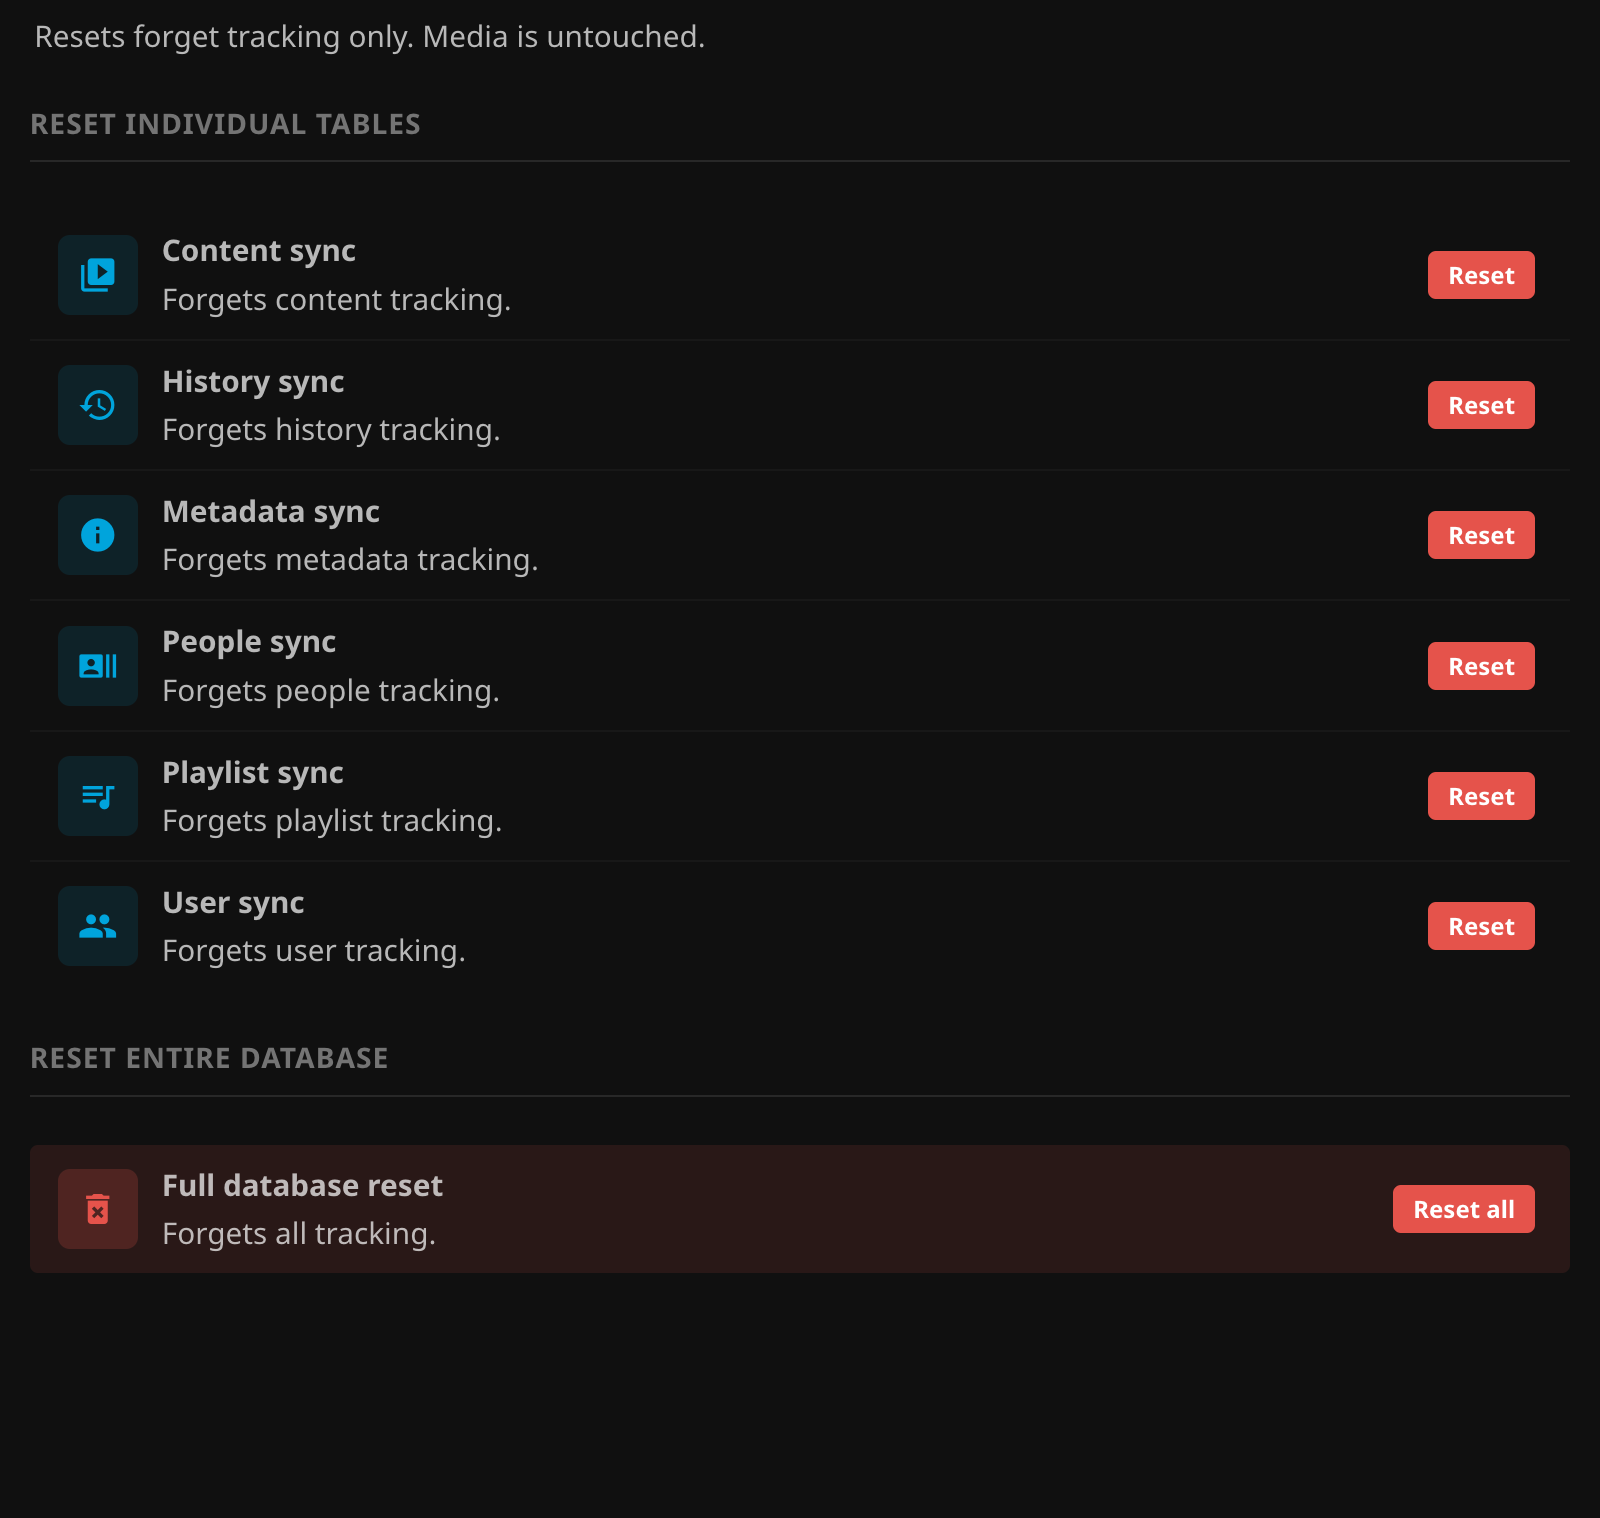
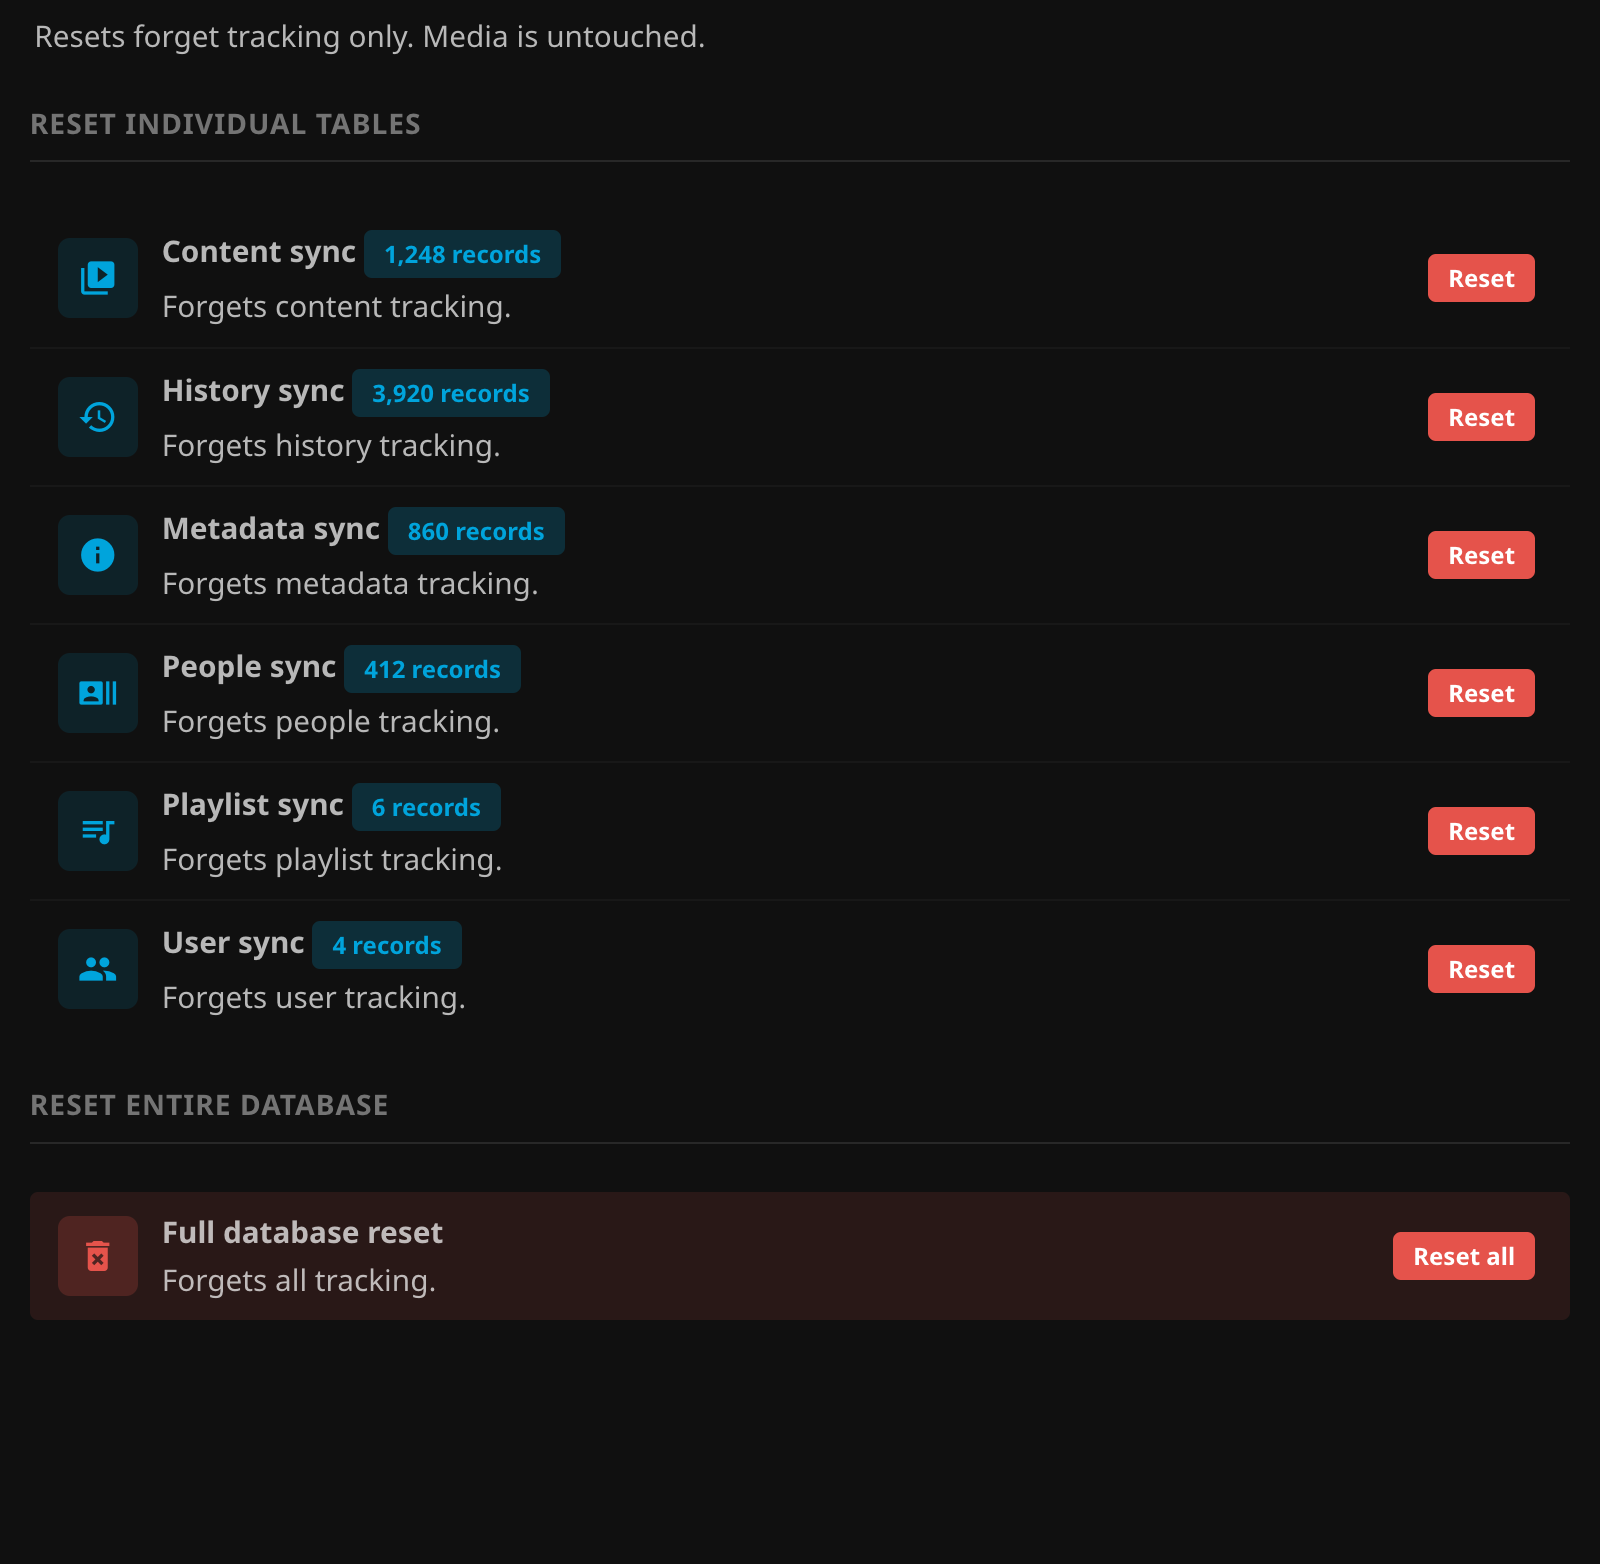
count records on troubleshooting tables

diff --git a/Jellyfin.Plugin.Zooid/Web/zooid_troubleshooting.js b/Jellyfin.Plugin.Zooid/Web/zooid_troubleshooting.js
@@ -75,13 +75,29 @@ export default function (view) {
 
     // paintTables
     // Colors each table's tile by what it holds: the accent while it has rows a reset would forget, gray while it is
-    // empty. A table whose count cannot be read keeps the accent.
+    // empty. A table with rows shows how many in a badge beside its name. A table whose count cannot be read keeps the
+    // accent and shows no badge.
     function paintTables() {
         return ZooidShared.apiRequest('Tables', 'GET').then(function (counts) {
             Object.keys(TABLE_BUTTONS).forEach(function (table) {
                 var button = view.querySelector('#' + TABLE_BUTTONS[table]);
                 var row = button && button.closest('.stolon-reset-row');
-                if (row) zooidModule.setCollapsibleTile(row.querySelector('.stolon-collapsible-tile'), counts && counts[table] === 0 ? 'gray' : null);
+                if (!row) return;
+                var count = counts ? counts[table] : undefined;
+                zooidModule.setCollapsibleTile(row.querySelector('.stolon-collapsible-tile'), count === 0 ? 'gray' : null);
+                var title = row.querySelector('.stolon-reset-info > div');
+                var badge = row.querySelector('.zooid-table-count');
+                if (typeof count === 'number' && count > 0 && title) {
+                    if (!badge) {
+                        badge = zooidModule.make('span', 'stolon-badge stolon-blue zooid-table-count');
+                        title.appendChild(document.createTextNode(' '));
+                        title.appendChild(badge);
+                    }
+                    badge.textContent = ZooidShared.t.format(count === 1 ? 'BadgeRecordOne' : 'BadgeRecordMany', count.toLocaleString());
+                    badge.hidden = false;
+                } else if (badge) {
+                    badge.hidden = true;
+                }
             });
         }).catch(function () { /* the tiles keep the accent */ });
     }

diff --git a/docs/Setup.md b/docs/Setup.md
@@ -174,4 +174,4 @@ While a server may link to this one, the page also charts **Link streams**. It s
 
 ![Troubleshooting](screenshots/Troubleshooting.png)
 
-**Troubleshooting** holds resets that forget Zooid's tracking. Media is untouched. **Reset individual tables** has a **Reset** for each of **Content sync**, **History sync**, **Metadata sync**, **People sync**, **Playlist sync**, and **User sync**. A table's tile keeps the accent color while the table holds tracking, and turns gray while it is empty, so there is nothing to reset. **Reset entire database** has **Reset all**, which forgets the tracking of every sync type. Each reset asks first in a dialog that names the table, and it cannot be undone. The next scan starts over.
+**Troubleshooting** holds resets that forget Zooid's tracking. Media is untouched. **Reset individual tables** has a **Reset** for each of **Content sync**, **History sync**, **Metadata sync**, **People sync**, **Playlist sync**, and **User sync**. A table's tile keeps the accent color while the table holds tracking, with a badge beside its name that counts its records, and turns gray with no badge while it is empty, so there is nothing to reset. **Reset entire database** has **Reset all**, which forgets the tracking of every sync type. Each reset asks first in a dialog that names the table, and it cannot be undone. The next scan starts over.
